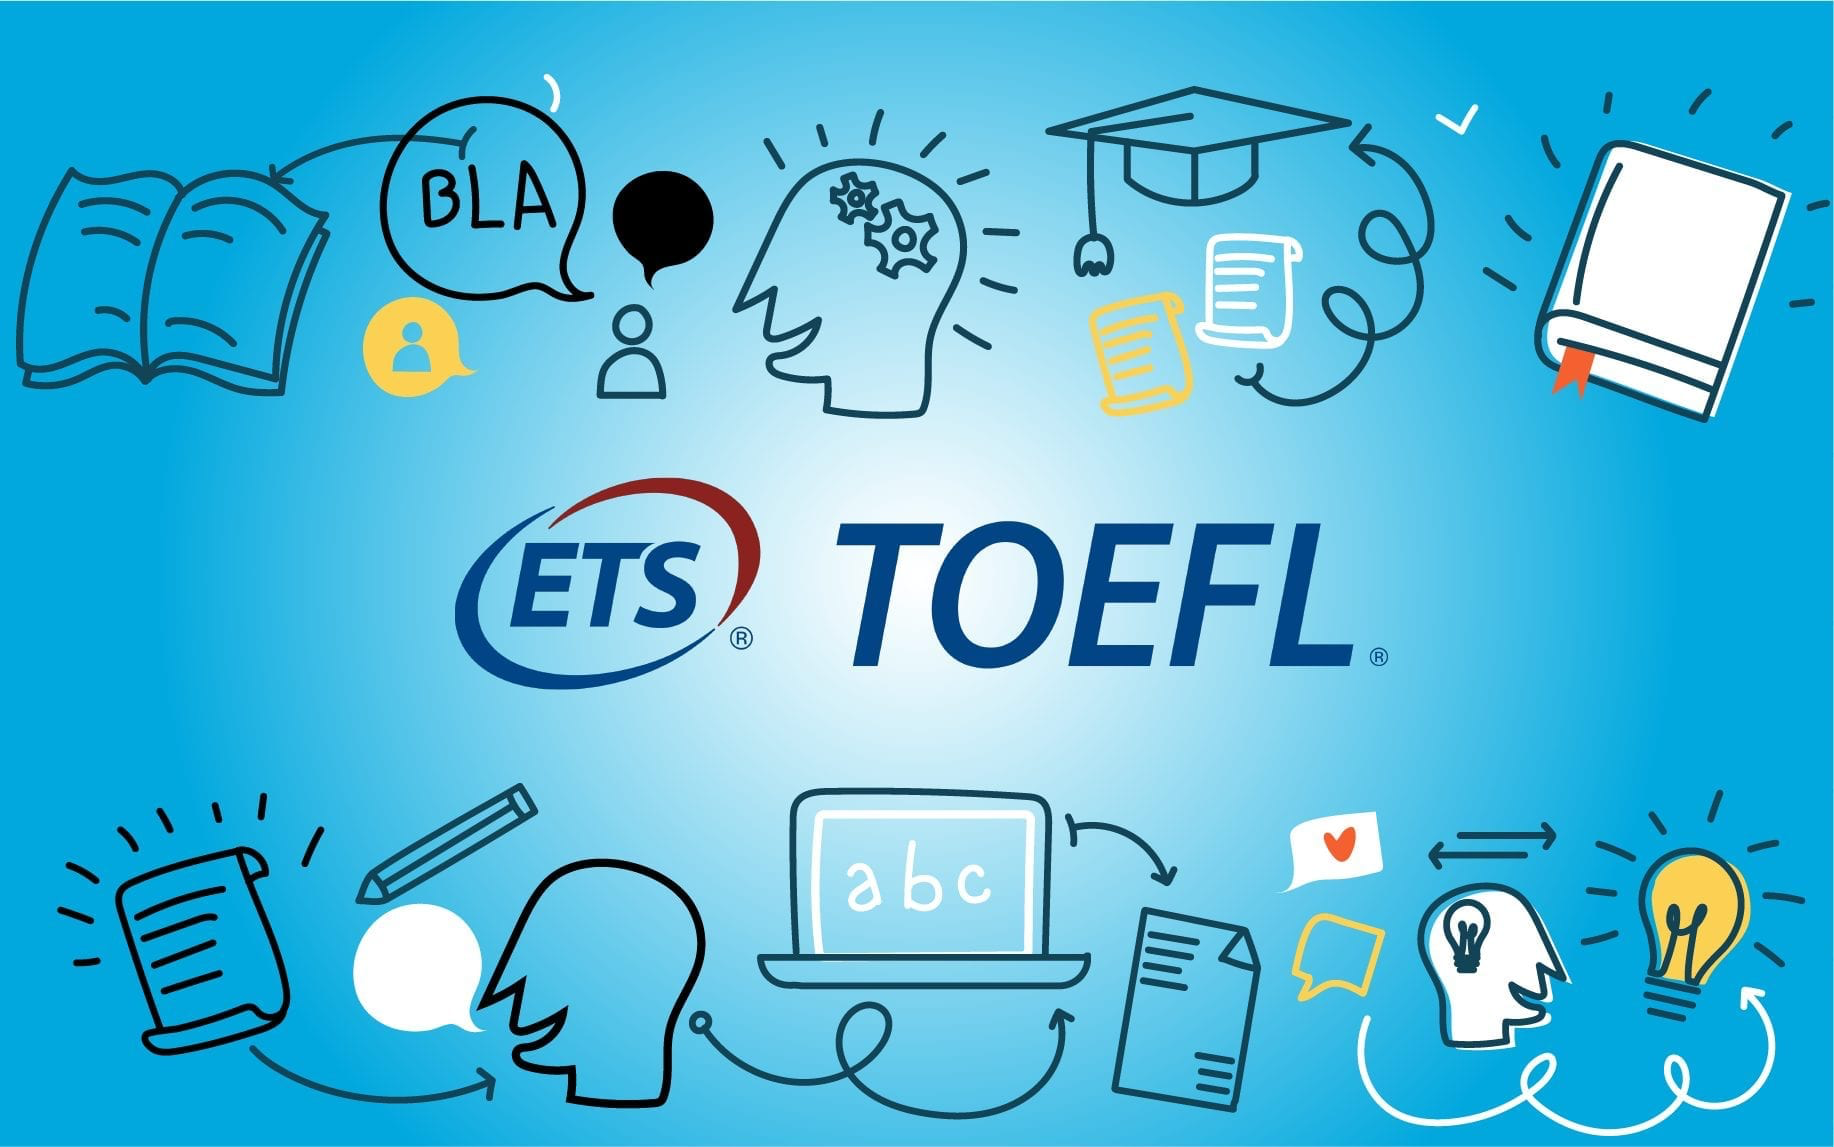
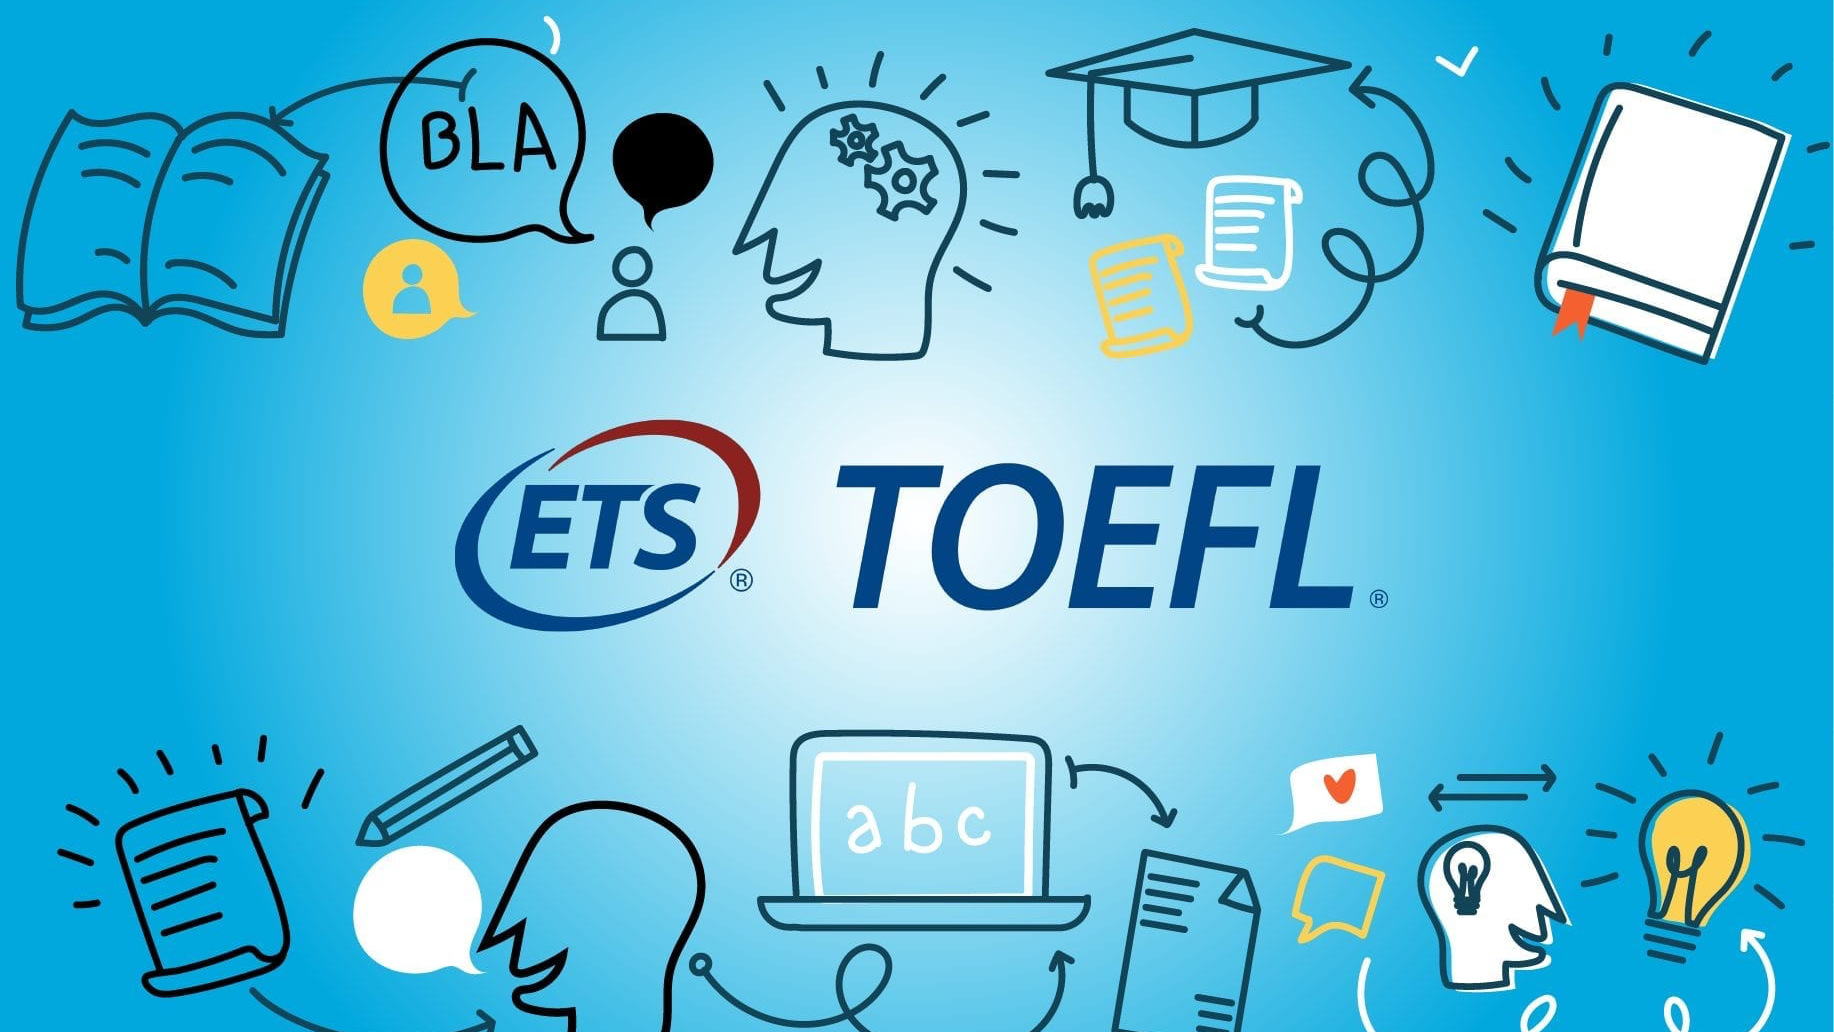
fix display bugs

diff --git a/pages/index.tsx b/pages/index.tsx
@@ -32,9 +32,10 @@ export default function Home({allLatestPostsData, curLan, setCurLan}: {
                     <div>Hello there! Welcome to CHAOS, my personal website.</div>
                     <div>
                         The articles about academic and technical topics will be collected in <Link
-                        href={"/articles"} className={"link-ina"}>articles</Link>, and those about casual, miscellaneous
-                        topics can be seen
-                        in <Link href={"/talks"} className={"link-ina"}>talks</Link>. Feel free to take a look at them.
+                        href={"/articles"} className={"link-ina"}>articles</Link>, and those about casual,
+                        miscellaneous topics can be seen in <Link href={"/talks"}
+                                                                  className={"link-ina"}>talks</Link>. Feel free to
+                        take a look at them.
                     </div>
                     <div>You can see my CV <Link href={"/CV.pdf"} className={"link-ina"}>here</Link> if interested.
                     </div>
@@ -47,12 +48,14 @@ export default function Home({allLatestPostsData, curLan, setCurLan}: {
                                                                            className={"link-ina"}>React</Link> + <Link
                         href={"https://nextjs.org/"} className={"link-ina"}>Next.js</Link> + <Link
                         href={"https://www.typescriptlang.org/"} className={"link-ina"}>TypeScript</Link>,
-                        with <Link href={"https://tailwindcss.com/"} className={"link-ina"}>TailwindCSS</Link> used as
+                        with <Link href={"https://tailwindcss.com/"} className={"link-ina"}>TailwindCSS</Link> used
+                        as
                         the CSS library. The blog is a static website hosted on <Link href={"https://vercel.com/"}
                                                                                       className={"link-ina"}>Vercel</Link>.
                     </div>
                     <div>You can view the GitHub repository of this blog <Link
-                        href={"https://github.com/WHALEEYE/chaos"} className={"link-ina"}>here</Link>. The source code
+                        href={"https://github.com/WHALEEYE/chaos"} className={"link-ina"}>here</Link>. The source
+                        code
                         of this blog is MIT licensed.
                     </div>
                 </Showcase>

diff --git a/components/SmallCard.tsx b/components/SmallCard.tsx
@@ -12,7 +12,7 @@ export default function SmallCard({title, dateString, sectionPath, id, coverStri
     return (
         <Link href={blogURL}>
             <div
-                className={"max-w-2xl transition-all hover:duration-250 ease-in-out p-2 grid grid-cols-3 justify-between rounded gap-x-4 hover:text-[#996E5C] hover:cursor-pointer hover:bg-gradient-to-r hover:from-gray-600/5 shadow hover:shadow-lg"}>
+                className={"transition-all hover:duration-250 ease-in-out p-2 grid grid-cols-3 justify-between rounded gap-x-4 hover:text-[#996E5C] hover:cursor-pointer hover:bg-gradient-to-r hover:from-gray-600/5 shadow hover:shadow-lg"}>
                 <div className={"grid col-span-2 content-between"}>
                     <div className={"font-bold text-lg"}>{title}</div>
                     <div className={"light-text"}>
@@ -20,7 +20,7 @@ export default function SmallCard({title, dateString, sectionPath, id, coverStri
                     </div>
                 </div>
                 <div className={"grid justify-end"}>
-                    <Image src={coverURL} width={208} height={117} alt={title + " image"}/>
+                    <Image src={coverURL} width={16} height={9} layout={"responsive"} alt={title + " image"}/>
                 </div>
             </div>
         </Link>

diff --git a/components/Layout.tsx b/components/Layout.tsx
@@ -156,7 +156,8 @@ export default function Layout({children, section, curLan, setCurLan}: {
                                 </div>
                                 <div>
                                     <Link href={"mailto:isaacjin@u.northwestern.edu"}>
-                                        <div className={"link-ina"}>{curLan === Languages.ENG ? "Contact Me" : "邮件联系"}</div>
+                                        <div
+                                            className={"link-ina"}>{curLan === Languages.ENG ? "Contact Me" : "邮件联系"}</div>
                                     </Link>
                                 </div>
                             </div>

diff --git a/pages/articles/[id].tsx b/pages/articles/[id].tsx
@@ -35,7 +35,7 @@ export default function Post({postData, curLan, setCurLan}: {
         <Head>
             <title>{curPostData.title}</title>
         </Head>
-        <Image src={coverURL} width={1920} height={1080} alt={"cover"}/>
+        <Image src={coverURL} width={1920} height={1080} layout={"responsive"} alt={"cover"}/>
         <div className={"blog-content"}>
             <div>
                 {languageNotSupported && <LanguageWarningBar lan={curLan}/>}

diff --git a/pages/talks/[id].tsx b/pages/talks/[id].tsx
@@ -35,7 +35,7 @@ export default function Post({postData, curLan, setCurLan}: {
         <Head>
             <title>{curPostData.title}</title>
         </Head>
-        <Image src={coverURL} width={1920} height={1080} alt={"cover"}/>
+        <Image src={coverURL} width={1920} height={1080} layout={"responsive"} alt={"cover"}/>
         <div className={"blog-content"}>
             <div>
                 {languageNotSupported && <LanguageWarningBar lan={curLan}/>}
